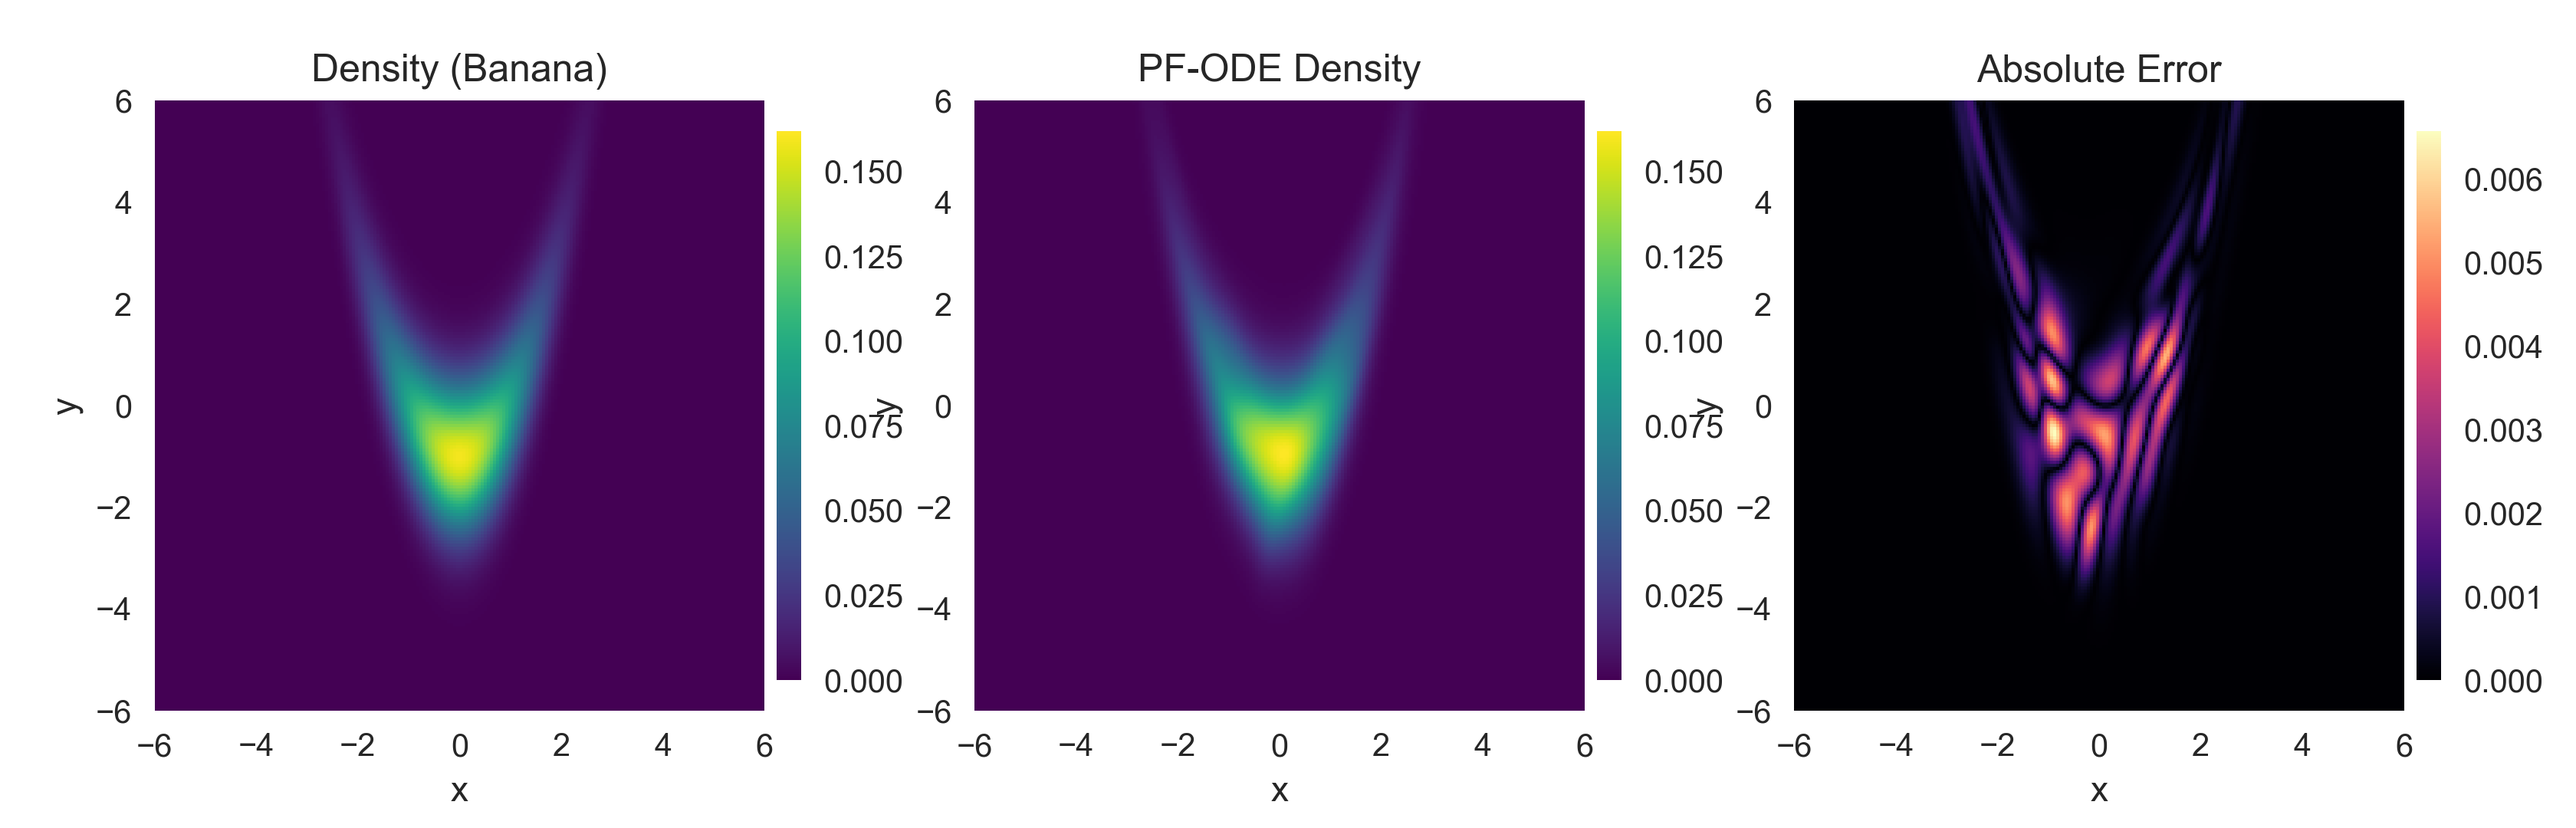
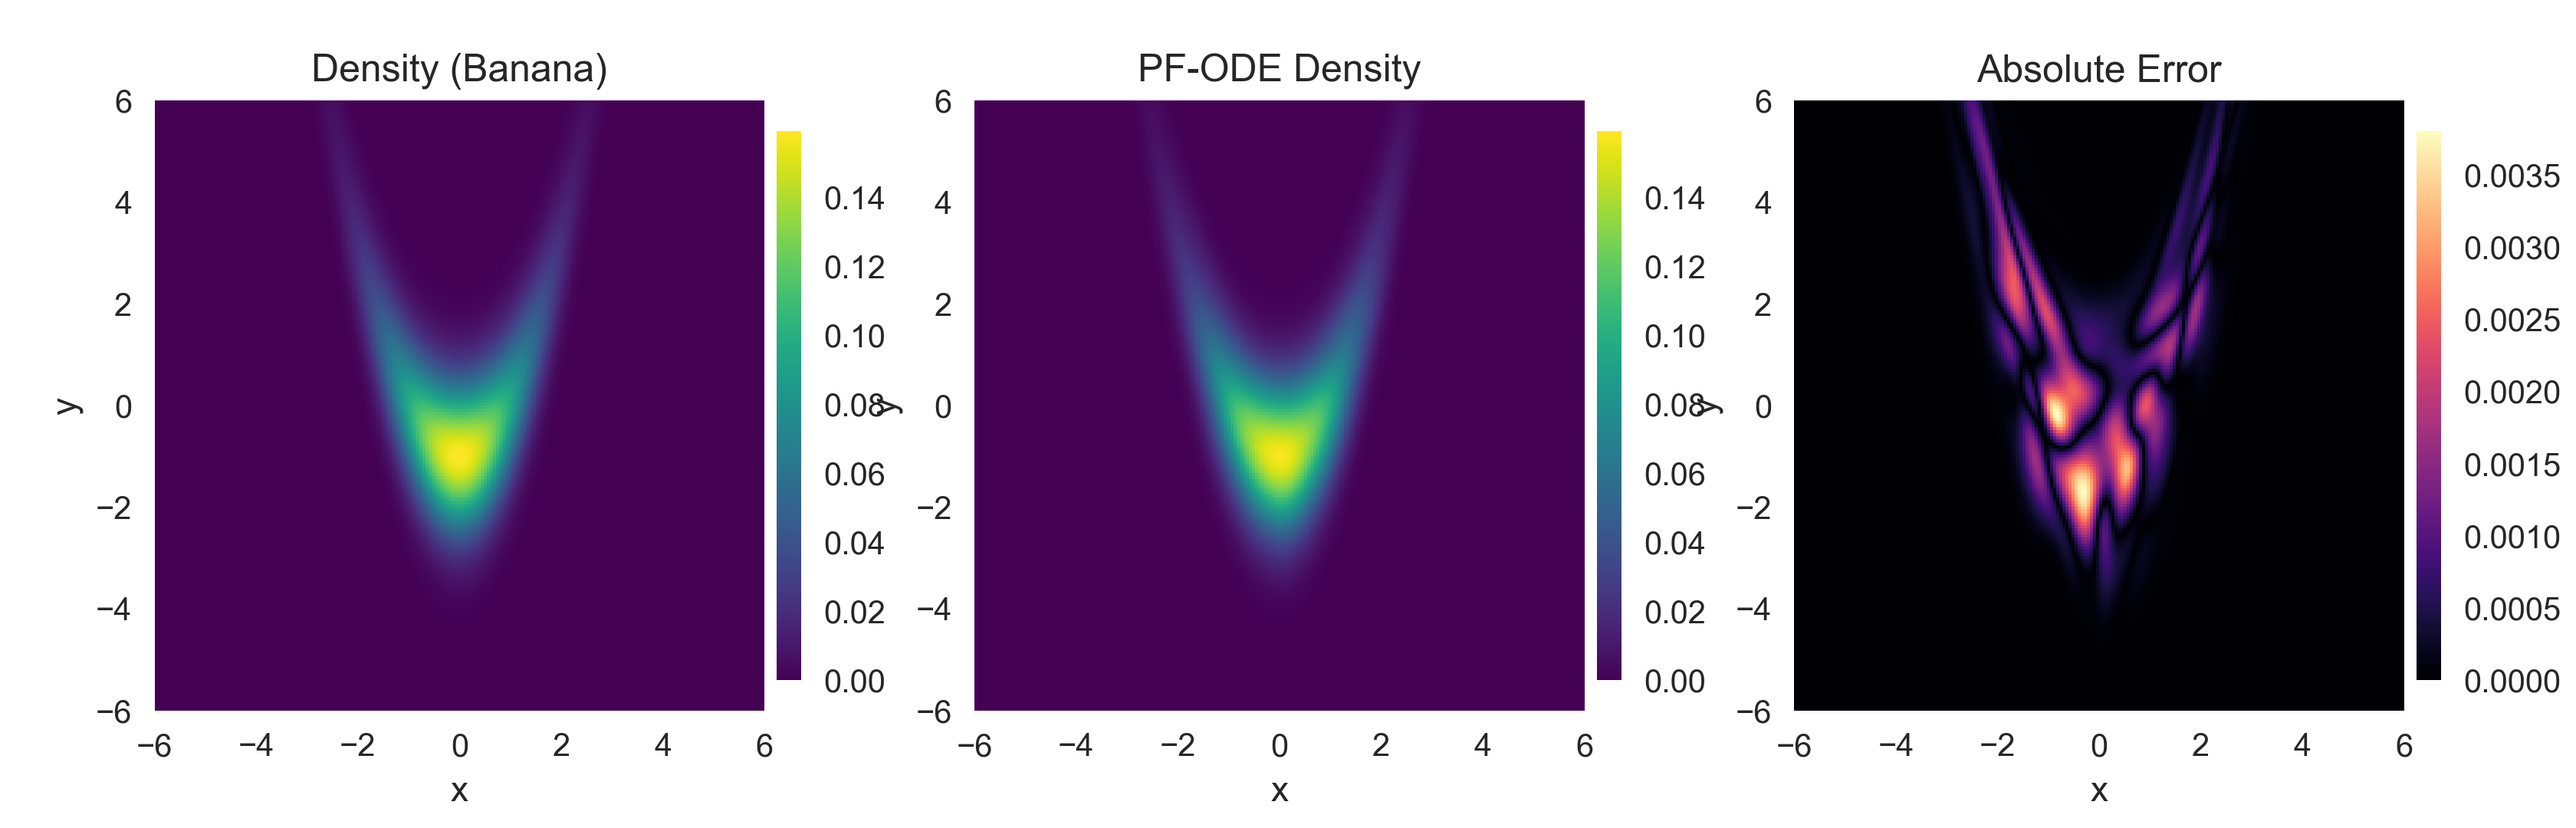
权重更改

diff --git a/show_density_heatmap.py b/show_density_heatmap.py
@@ -84,6 +84,12 @@ def build_grid(
     return grid_x, grid_y, grid_points
 
 
+def sanitize_for_plot(arr: np.ndarray, *, fill_value: float = 0.0) -> np.ndarray:
+    """Replace NaN/Inf with a finite fill value to avoid blank patches in pcolormesh."""
+    cleaned = np.nan_to_num(arr, nan=fill_value, posinf=fill_value, neginf=fill_value)
+    return np.clip(cleaned, a_min=0.0, a_max=None)
+
+
 def main() -> None:
     seed = int(config.get("seed", 42))
     set_seed(seed)
@@ -156,7 +162,7 @@ def main() -> None:
         mean, cov = get_distribution_stats(merged_config)
         analytic_log_density = gaussian_log_density(grid_points, mean, cov).reshape(grid_x.shape)
     
-    analytic_density = np.exp(analytic_log_density)
+    analytic_density = sanitize_for_plot(np.exp(analytic_log_density))
 
     steps_eval = int(steps_override or merged_config.get("density_eval_steps", 600))
     eps_eval = float(eps_override or merged_config.get("nll_eval_eps", merged_config.get("eps", 1e-3)))
@@ -172,9 +178,9 @@ def main() -> None:
         method=method,
         batch_size=max(1, batch_size),
     ).reshape(grid_x.shape)
-    model_density = np.exp(model_log_density)
+    model_density = sanitize_for_plot(np.exp(model_log_density))
 
-    abs_error = np.abs(model_density - analytic_density)
+    abs_error = sanitize_for_plot(np.abs(model_density - analytic_density))
 
     density_vmin = float(np.nanmin(np.stack([analytic_density, model_density])))
     density_vmax = float(np.nanmax(np.stack([analytic_density, model_density])))
